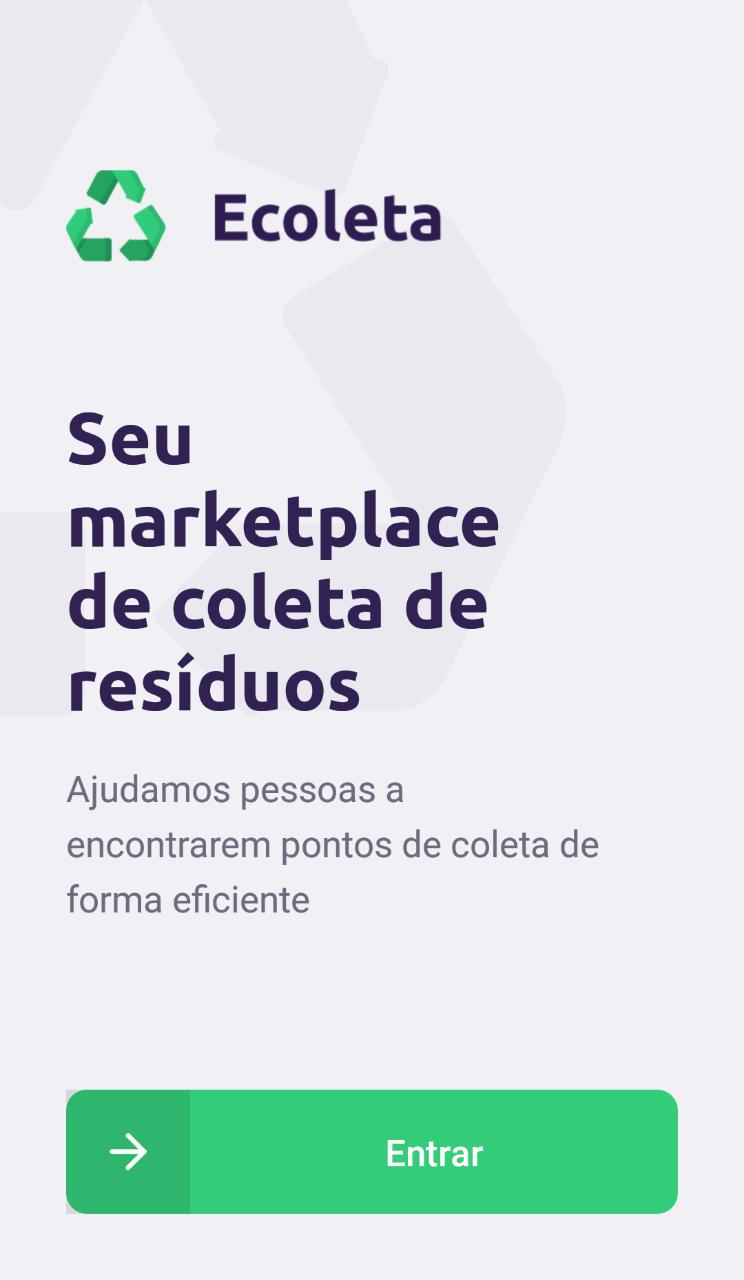
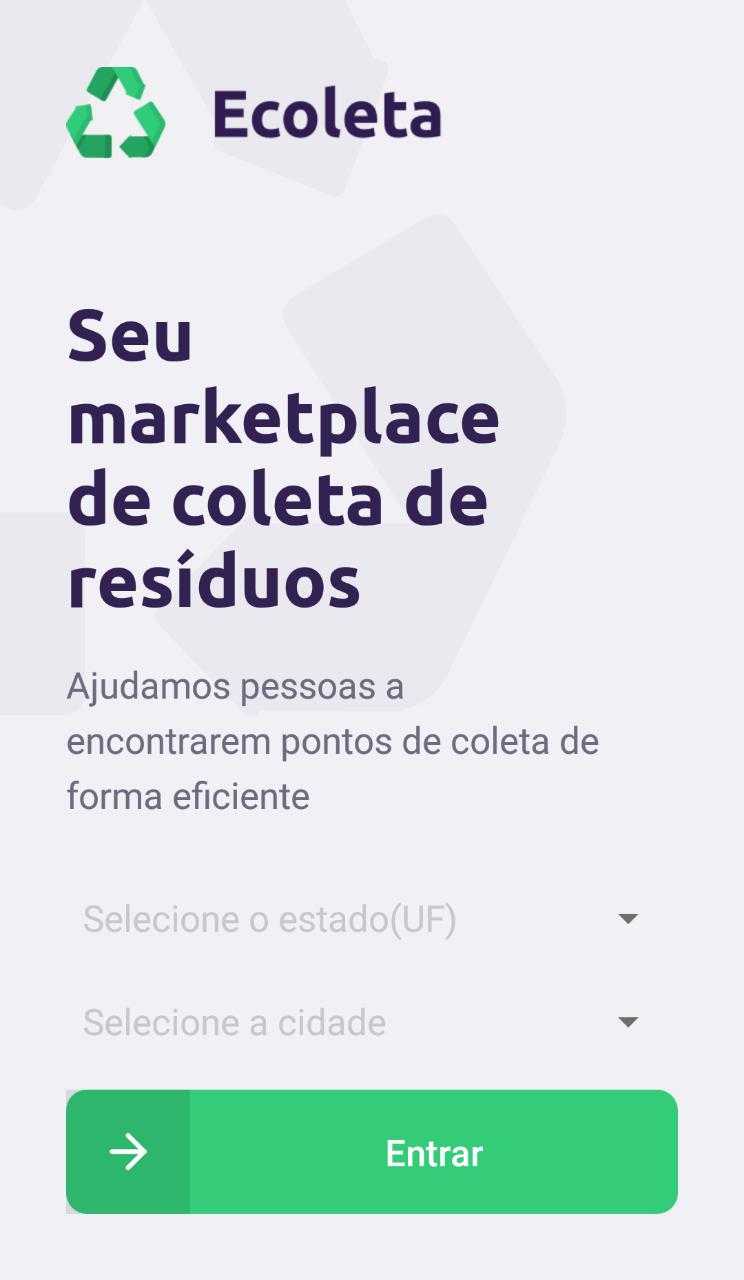
Update README.md with checks

diff --git a/README.md b/README.md
@@ -12,7 +12,9 @@ O projeto desenvolvido na NLW foi o Ecoleta, uma plataforma de cadastro e pesqui
 
 <img src="images/web/home.png" alt="home" width="400"/>
 <img src="images/web/cadastro.png" alt="cadastro" width="400"/>
-<img src="images/web/success.png" alt="success" width="400"/>
+<img src="images/web/sucesso.png" alt="success" width="400"/>
+<img src="images/web/busca.png" alt="busca" width="400"/>
+<img src="images/web/lista-busca.png" alt="lista-busca" width="400"/>
 
 ## Mobile - React Native com TypeScript
 
@@ -32,4 +34,4 @@ O projeto desenvolvido na NLW foi o Ecoleta, uma plataforma de cadastro e pesqui
 
 ## Mobile - React Native com TypeScript
 
-- [ ] Implementar filtragem por cidade e estado a busca de pontos de coleta.
+- [X] Implementar filtragem por cidade e estado a busca de pontos de coleta.
